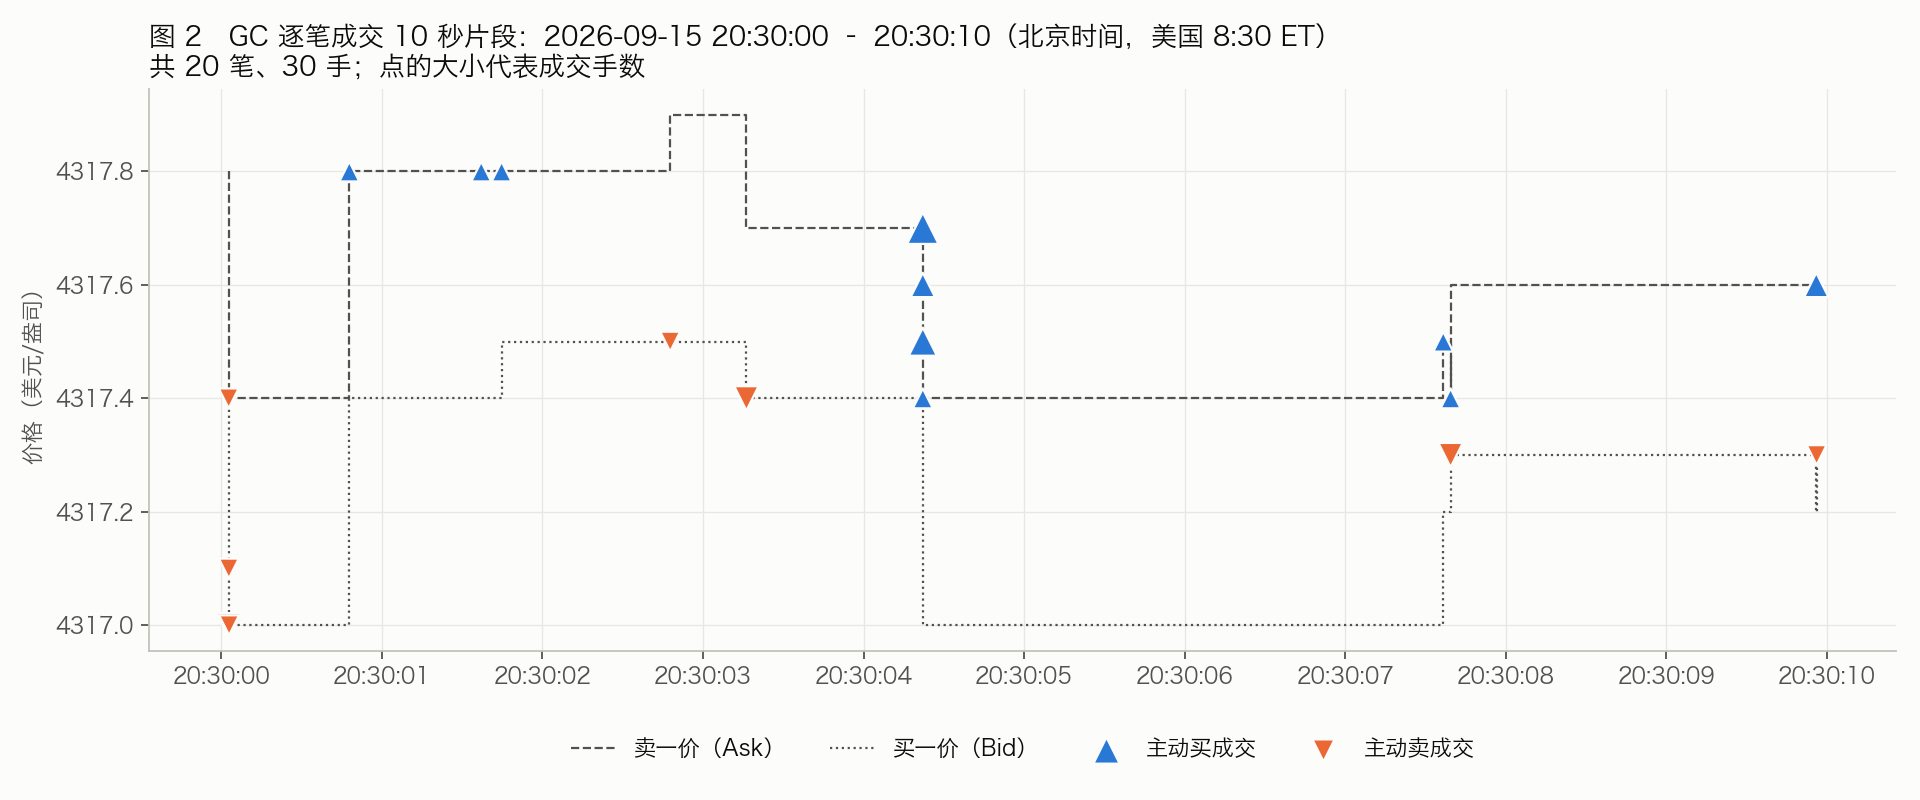
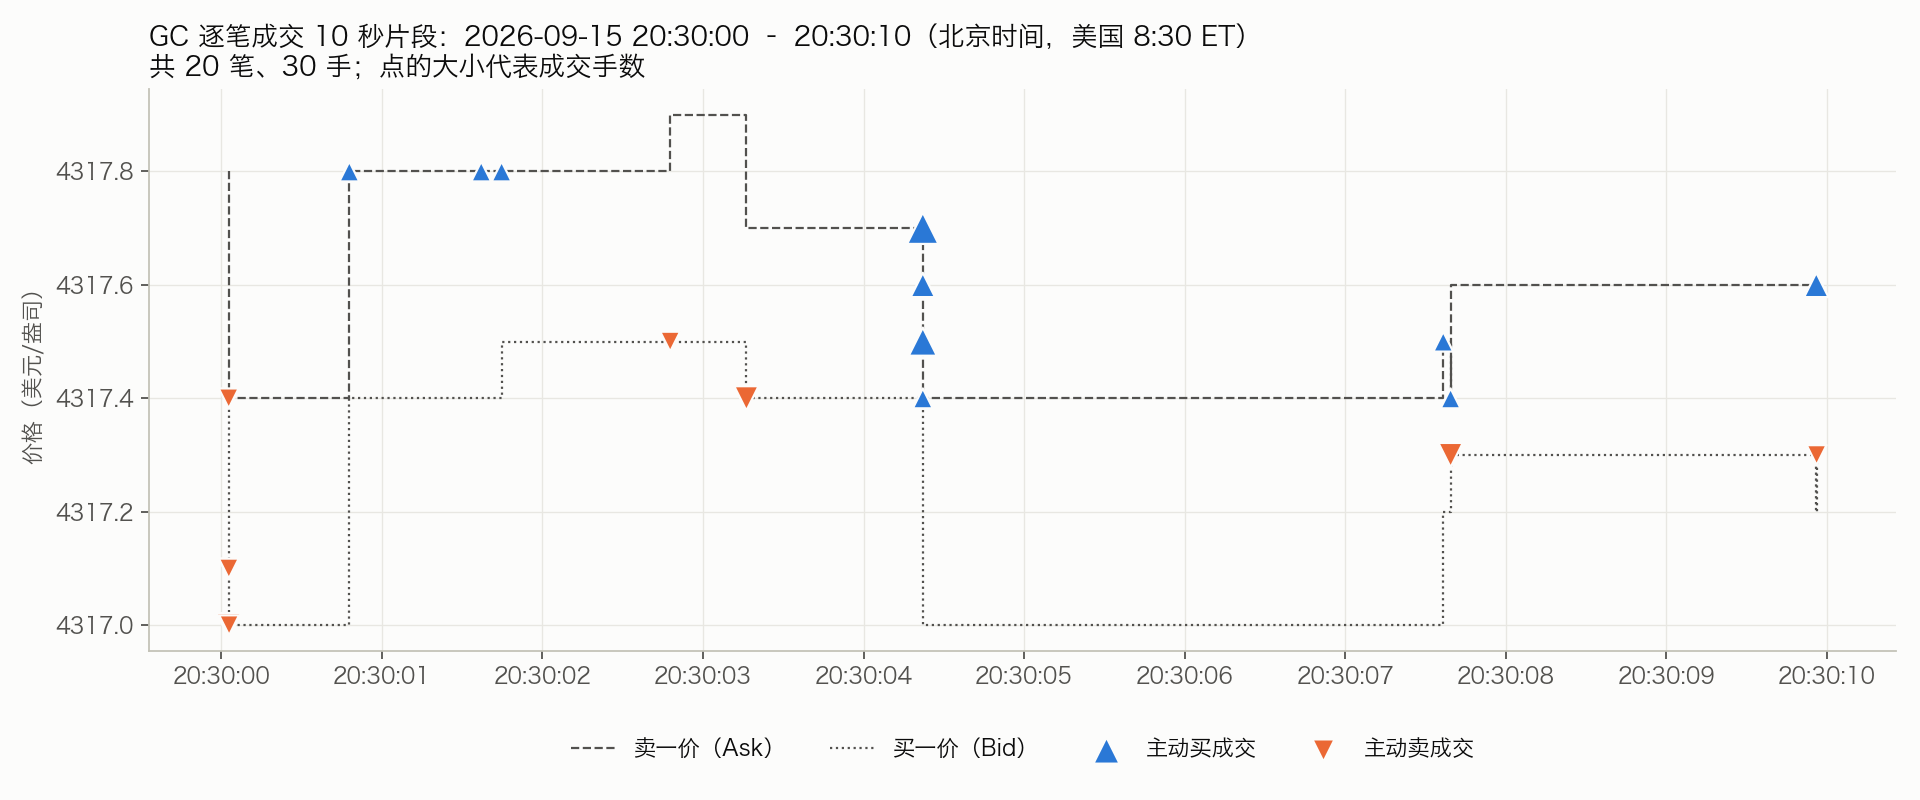
Drop figure numbers from plot titles
Figure numbers are set by the report, which numbers figures in its own order,
so titles baked into the images no longer say "Figure N." / "图 N". Affects
plot_eda_figures.py, plot_return_acf.py, plot_time_profiles.py and
make_data_examples.py; all Chinese and English figures regenerated.
图片标题去掉图号（图号由报告按出现顺序统一编排），中英文图全部重新生成

Changed region(s): [[0.0625, 0.0312, 0.6875, 0.0625]]

diff --git a/scripts/plot_eda_figures.py b/scripts/plot_eda_figures.py
@@ -36,27 +36,27 @@ T = {
         "dir": "中文", "sep": "　", "cls": {TP: "止盈", SL: "止损", TO: "超时"},
         "head": lambda s, h: f"{'做多' if s == 'long' else '做空'} {h} 分钟",
         "split": {"train": "训练集", "val": "验证集", "test": "测试集"}, "corr": "相关系数",
-        "f1": ("图1_目标分布.png", "图 1　6 个输出头的标签分布：训练集、验证集、测试集", "输出头（方向 × 持有期）", "占比（%）"),
-        "f2": ("图2_输入特征分布.png", "图 2　训练集中 4 个关键输入特征的分布（虚线 = 1% 与 99% 分位数）", "样本数（对数刻度）"),
+        "f1": ("图1_目标分布.png", "6 个输出头的标签分布：训练集、验证集、测试集", "输出头（方向 × 持有期）", "占比（%）"),
+        "f2": ("图2_输入特征分布.png", "训练集中 4 个关键输入特征的分布（虚线 = 1% 与 99% 分位数）", "样本数（对数刻度）"),
         "f2x": ["收盘价变化 d_close（本分钟 − 上一分钟收盘价，ATR14 倍数）", "盘口深度订单流不平衡 ofi_depth_adj（标准化后）",
                 "点差 / ATR14（spread_atr）", "相对成交量 relvol_60（本分钟 / 过去 60 分钟均值）"],
         "f2note": lambda k, out: f"峰度 {k:.1f}\n图外样本 {out:.2%}",
-        "f3": ("图3_组结构_交易日与标签相关性.png", "图 3　组结构：按交易日分组，相邻样本的标签高度相关"),
+        "f3": ("图3_组结构_交易日与标签相关性.png", "组结构：按交易日分组，相邻样本的标签高度相关"),
         "f3a": ("(a) 每个交易日的样本数（训练集）", "交易日（CME，美东 18:00 开盘）", "样本数（分钟）"),
         "f3b": ("(b) 相隔 k 分钟的两个样本标签相同的比例", "间隔 k（分钟，对数刻度）", "标签相同的比例（%）",
                 "随机配对的基准"),
-        "f4": ("图4_元数据与目标_时段和月份.png", "图 4　元数据与目标的关系（训练集，做多 30 分钟）"),
+        "f4": ("图4_元数据与目标_时段和月份.png", "元数据与目标的关系（训练集，做多 30 分钟）"),
         "f4a": ("(a) 按美东时间小时", "美东时间（小时，17 点为每日休市）", "占比（%）"),
         "f4b": ("(b) 按月份", "月份", "占比（%）"),
-        "f5": ("图5_每类标签随机示例.png", "图 5　每类标签随机抽 4 个训练样本（做多 30 分钟）：入场后每分钟买一价的高低区间（子图时间为美东时间）"),
+        "f5": ("图5_每类标签随机示例.png", "每类标签随机抽 4 个训练样本（做多 30 分钟）：入场后每分钟买一价的高低区间（子图时间为美东时间）"),
         "f5lab": ("入场价（卖一）", "止盈线", "止损线", "首次碰线"),
         "f5x": "入场后分钟", "f5y": "价格（美元）",
-        "f6": ("图6_捷径检查.png", "图 6　捷径检查（做多/做空 30 分钟）"),
+        "f6": ("图6_捷径检查.png", "捷径检查（做多/做空 30 分钟）"),
         "f6a": ("(a) 每周做多止盈率 − 做空止盈率（柱）与 GC 收盘价（线）", "周", "止盈率差（百分点）", "GC 收盘价（美元）"),
         "f6b": ("(b) 超时比例随相对成交量分组的变化（训练集）", "relvol_60 十分位（1 = 最清淡）", "超时比例（%）"),
         "f6c": ("(c) 极端点差（≥ 20 跳）与正常分钟的标签分布（训练集）", "", "占比（%）", ("正常点差", "极端点差"),
                 {"before": "剔除换月前 3 天之前", "after": "剔除换月前 3 天之后（现在的样本）"}, "占样本"),
-        "f8": ("图8_点差与波动率热力图_星期x美东小时.png", "图 8　点差与波动率：星期 × 美东小时（训练集样本，美东时间 {}）"),
+        "f8": ("图8_点差与波动率热力图_星期x美东小时.png", "点差与波动率：星期 × 美东小时（训练集样本，美东时间 {}）"),
         "f8a": ("(a) 每分钟平均点差的中位数", "跳（1 跳 = 0.1 美元）"),
         "f8b": ("(b) 1 分钟振幅（最高价 − 最低价）的中位数", "美元/盎司"),
         "f8x": "美东时间（小时）；周日一行 = 周日 18:00 开盘后的时段；空白 = 每日休市（17 点）或样本少于 100 分钟",
@@ -68,26 +68,26 @@ T = {
         "dir": "English", "sep": "  ", "cls": {TP: "Take-profit", SL: "Stop-loss", TO: "Timeout"},
         "head": lambda s, h: f"{'Long' if s == 'long' else 'Short'} {h} min",
         "split": {"train": "Train", "val": "Validation", "test": "Test"}, "corr": "corr.",
-        "f1": ("Fig1_target_distribution.png", "Figure 1. Label distribution of the 6 output heads: training, validation and test sets",
+        "f1": ("Fig1_target_distribution.png", "Label distribution of the 6 output heads: training, validation and test sets",
                "Output head (direction × horizon)", "Share (%)"),
         "f2": ("Fig2_input_distributions.png",
-               "Figure 2. Distributions of 4 key input features (training set; dashed = 1st and 99th percentiles)",
+               "Distributions of 4 key input features (training set; dashed = 1st and 99th percentiles)",
                "Count (log scale)"),
         "f2x": ["Close change d_close (close − previous close, in ATR14 units)", "Depth order-flow imbalance ofi_depth_adj (normalized)",
                 "Spread / ATR14 (spread_atr)", "Relative volume relvol_60 (this minute / 60-min mean)"],
         "f2note": lambda k, out: f"kurtosis {k:.1f}\noutside plot {out:.2%}",
-        "f3": ("Fig3_group_structure.png", "Figure 3. Group structure: samples group by trading day; nearby labels are highly correlated"),
+        "f3": ("Fig3_group_structure.png", "Group structure: samples group by trading day; nearby labels are highly correlated"),
         "f3a": ("(a) Samples per trading day (training set)", "Trading day (CME, opens 18:00 ET)", "Samples (minutes)"),
         "f3b": ("(b) Share of sample pairs k minutes apart with the same label", "Lag k (minutes, log scale)",
                 "Same label (%)", "Random-pair baseline"),
-        "f4": ("Fig4_metadata_vs_target.png", "Figure 4. Metadata vs. target (training set, long 30 min)"),
+        "f4": ("Fig4_metadata_vs_target.png", "Metadata vs. target (training set, long 30 min)"),
         "f4a": ("(a) By US Eastern hour", "US Eastern time (hour; 17 = daily halt)", "Share (%)"),
         "f4b": ("(b) By month", "Month", "Share (%)"),
         "f5": ("Fig5_random_examples_per_class.png",
-               "Figure 5. 4 random training samples per class (long 30 min): per-minute bid high-low after entry (panel times in US Eastern)"),
+               "4 random training samples per class (long 30 min): per-minute bid high-low after entry (panel times in US Eastern)"),
         "f5lab": ("Entry (ask)", "Take-profit line", "Stop-loss line", "First touch"),
         "f5x": "Minutes after entry", "f5y": "Price (USD)",
-        "f6": ("Fig6_shortcut_checks.png", "Figure 6. Shortcut checks (long/short 30 min)"),
+        "f6": ("Fig6_shortcut_checks.png", "Shortcut checks (long/short 30 min)"),
         "f6a": ("(a) Weekly long TP rate − short TP rate (bars) and GC close (line)", "Week",
                 "TP-rate difference (pp)", "GC close (USD)"),
         "f6b": ("(b) Timeout share by relative-volume decile (training set)", "relvol_60 decile (1 = quietest)",
@@ -95,7 +95,7 @@ T = {
         "f6c": ("(c) Label mix: extreme-spread (≥ 20 ticks) vs. normal minutes (training set)",
                 "", "Share (%)", ("Normal spread", "Extreme spread"), {"before": "Before excluding the 3 pre-roll days", "after": "After excluding them (current samples)"}, "share of samples"),
         "f8": ("Fig8_spread_volatility_heatmap_weekday_x_ET_hour.png",
-               "Figure 8. Spread and volatility by weekday × US Eastern hour (training samples, {} ET)"),
+               "Spread and volatility by weekday × US Eastern hour (training samples, {} ET)"),
         "f8a": ("(a) Median of the per-minute average spread", "Ticks (1 tick = $0.10)"),
         "f8b": ("(b) Median 1-minute range (high − low)", "USD/oz"),
         "f8x": "US Eastern time (hour); Sunday row = session after the Sunday 18:00 open; blank = daily halt (17:00) or fewer than 100 minutes",

diff --git a/scripts/plot_time_profiles.py b/scripts/plot_time_profiles.py
@@ -83,22 +83,22 @@ T = {
            "xhour": "美东时间（小时，17 点为每日休市）", "iqr": "25%–75% 区间", "med": "中位数",
            "spread": "每分钟平均点差（ticks）", "wide": "极端点差占比（%）",
            "wide_note": "极端点差：入场点差 ≥ 训练集中位数 × 5（20 ticks）",
-           "t3": "图 3　GC 点差按美东小时分布（{}）", "f3": "图3_点差按美东小时.png",
+           "t3": "GC 点差按美东小时分布（{}）", "f3": "图3_点差按美东小时.png",
            "r_iqr": "1 分钟振幅 25%–75% 区间", "r_med": "1 分钟振幅中位数", "atr": "ATR14 中位数", "usd": "美元/盎司",
-           "t4": "图 4　GC 波动率按美东小时分布（{}）", "f4": "图4_波动率按美东小时.png",
+           "t4": "GC 波动率按美东小时分布（{}）", "f4": "图4_波动率按美东小时.png",
            "range": "1 分钟振幅（美元）", "s_spread": "点差", "s_range": "波动率", "wd": WD_NAME,
-           "t5": "图 5　GC 点差与波动率按星期分布（{}）", "f5": "图5_点差与波动率按星期.png"},
+           "t5": "GC 点差与波动率按星期分布（{}）", "f5": "图5_点差与波动率按星期.png"},
     "en": {"dir": f"{OUT}/English", "font": ["Arial", "Helvetica"],
            "span": f"training set, ET {t_start:%Y-%m-%d %H:%M} to {t_end:%Y-%m-%d %H:%M}",
            "xhour": "ET hour (17:00 is the daily maintenance break)", "iqr": "25%–75% range", "med": "Median",
            "spread": "Mean spread per minute (ticks)", "wide": "Extreme-spread share (%)",
            "wide_note": "Extreme spread: entry spread ≥ 5 × training median (20 ticks)",
-           "t3": "Figure 3. GC spread by ET hour ({})", "f3": "Fig3_spread_by_ET_hour.png",
+           "t3": "GC spread by ET hour ({})", "f3": "Fig3_spread_by_ET_hour.png",
            "r_iqr": "1-minute range, 25%–75%", "r_med": "1-minute range, median", "atr": "ATR14, median", "usd": "USD per ounce",
-           "t4": "Figure 4. GC volatility by ET hour ({})", "f4": "Fig4_volatility_by_ET_hour.png",
+           "t4": "GC volatility by ET hour ({})", "f4": "Fig4_volatility_by_ET_hour.png",
            "range": "1-minute range (USD)", "s_spread": "Spread", "s_range": "Volatility",
            "wd": {6: "Sun", 0: "Mon", 1: "Tue", 2: "Wed", 3: "Thu", 4: "Fri"},
-           "t5": "Figure 5. GC spread and volatility by weekday ({})", "f5": "Fig5_spread_volatility_by_weekday.png"},
+           "t5": "GC spread and volatility by weekday ({})", "f5": "Fig5_spread_volatility_by_weekday.png"},
 }
 
 for lang, tx in T.items():

diff --git a/scripts/make_data_examples.py b/scripts/make_data_examples.py
@@ -32,21 +32,21 @@ s.to_csv(f"{OUT}/示例_10秒逐笔成交_{T0:%Y%m%d_%H%M%S}.csv")
 T = {
     "zh": {"dir": OUT, "font": ["Hiragino Sans GB", "Arial Unicode MS"],
            "spot": "XAU/USD 现货（Twelve Data）", "gc": "GC 主力期货（Databento）", "price": "价格（美元/盎司）",
-           "t1": f"图 1　{DAY}（北京时间）现货与期货价格、GC 每分钟成交量与 Delta",
+           "t1": f"{DAY}（北京时间）现货与期货价格、GC 每分钟成交量与 Delta",
            "vol": "GC 成交量（手/分钟）", "buy": "主动买占优（Delta > 0）", "sell": "主动卖占优（Delta < 0）",
            "delta": "Delta（手/分钟）", "bj": "北京时间", "f1": "图1_一天的价格_成交量_Delta.png",
            "ask": "卖一价（Ask）", "bid": "买一价（Bid）", "tb": "主动买成交", "ta": "主动卖成交",
-           "t2": (f"图 2　GC 逐笔成交 10 秒片段：{T0:%Y-%m-%d %H:%M:%S} – {T1:%H:%M:%S}（北京时间，美国 8:30 ET）"
+           "t2": (f"GC 逐笔成交 10 秒片段：{T0:%Y-%m-%d %H:%M:%S} – {T1:%H:%M:%S}（北京时间，美国 8:30 ET）"
                   f"\n共 {len(s)} 笔、{int(s['size'].sum())} 手；点的大小代表成交手数"),
            "f2": "图2_10秒逐笔成交片段.png"},
     "en": {"dir": f"{OUT}/English", "font": ["Arial", "Helvetica"],
            "spot": "XAU/USD spot (Twelve Data)", "gc": "GC front-month futures (Databento)", "price": "Price (USD per ounce)",
-           "t1": f"Figure 1. {DAY} (Beijing time): spot and futures prices, GC volume and delta per minute",
+           "t1": f"{DAY} (Beijing time): spot and futures prices, GC volume and delta per minute",
            "vol": "GC volume (lots per minute)", "buy": "Buyer-initiated dominates (delta > 0)",
            "sell": "Seller-initiated dominates (delta < 0)", "delta": "Delta (lots per minute)", "bj": "Beijing time",
            "f1": "Fig1_one_day_price_volume_delta.png",
            "ask": "Best ask", "bid": "Best bid", "tb": "Buyer-initiated trade", "ta": "Seller-initiated trade",
-           "t2": (f"Figure 2. GC trades in a 10-second window: {T0:%Y-%m-%d %H:%M:%S} – {T1:%H:%M:%S} (Beijing time, 8:30 ET)"
+           "t2": (f"GC trades in a 10-second window: {T0:%Y-%m-%d %H:%M:%S} – {T1:%H:%M:%S} (Beijing time, 8:30 ET)"
                   f"\n{len(s)} trades, {int(s['size'].sum())} lots; marker size shows the number of lots"),
            "f2": "Fig2_10_second_trades.png"},
 }

diff --git a/scripts/plot_return_acf.py b/scripts/plot_return_acf.py
@@ -31,7 +31,7 @@ COL = {"raw": "#2a78d6", "intraday": "#eb6834", "atr": "#52514e"}
 T = {
     "zh": {
         "file": "中文/图7_相对变化率自相关.png",
-        "title": "图 7　1 分钟相对变化率的自相关（训练集，滞后 1–240 分钟）",
+        "title": "1 分钟相对变化率的自相关（训练集，滞后 1–240 分钟）",
         "a": "(a) 相对变化率 r = ln(本分钟收盘价 ÷ 上一分钟收盘价)（涨跌方向）", "b": "(b) 相对变化率绝对值 |r|（波动大小）",
         "x": "滞后 k（分钟）", "y": "自相关系数",
         "band": "95% 显著性范围（±1.96/√N）",
@@ -41,7 +41,7 @@ T = {
     },
     "en": {
         "file": "English/Fig7_relative_change_autocorrelation.png",
-        "title": "Figure 7. Autocorrelation of 1-minute relative changes (training set, lags 1–240 min)",
+        "title": "Autocorrelation of 1-minute relative changes (training set, lags 1–240 min)",
         "a": "(a) Relative change r = ln(close ÷ previous close) (direction)", "b": "(b) Absolute relative change |r| (volatility)",
         "x": "Lag k (minutes)", "y": "Autocorrelation",
         "band": "95% significance band (±1.96/√N)",
